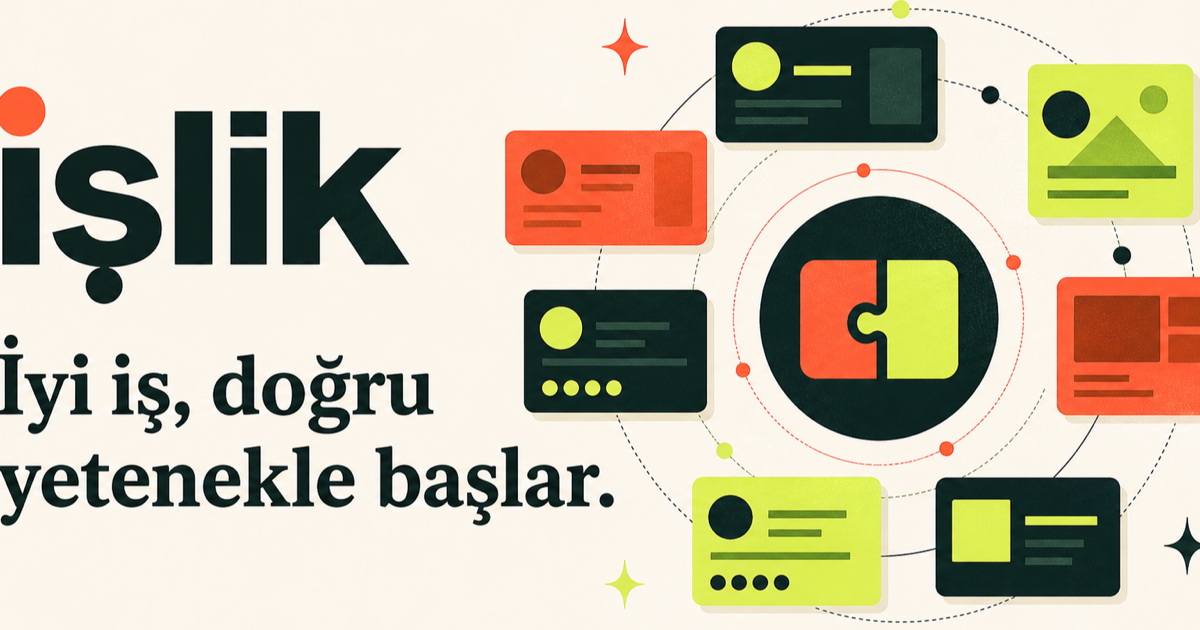
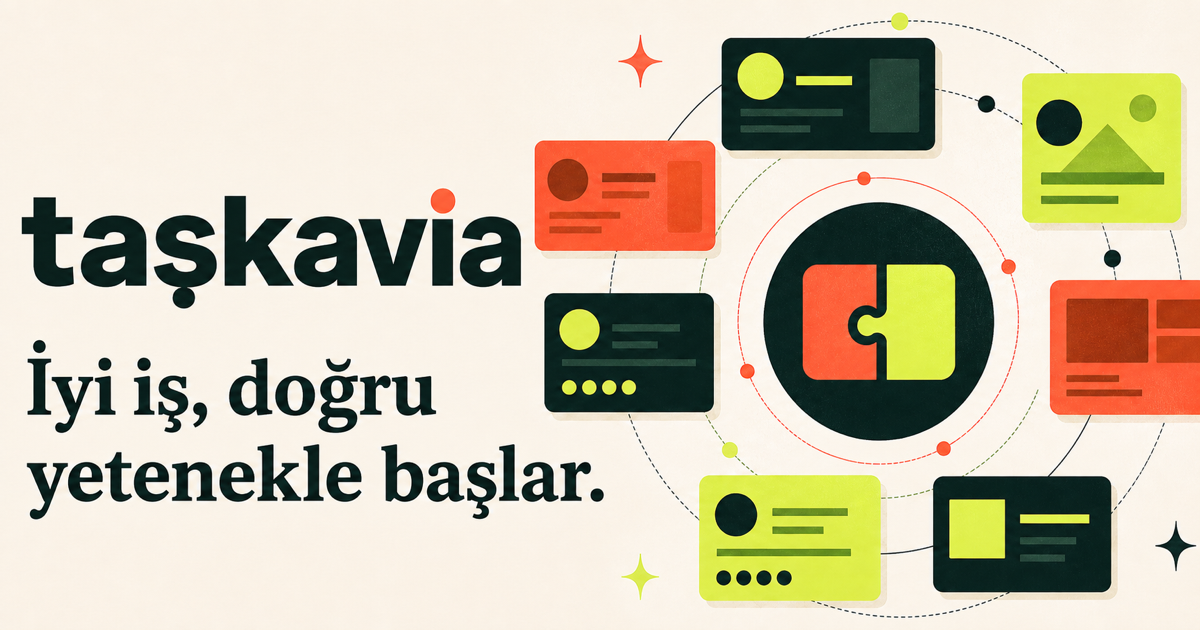
Rename marketplace to Taskavia

diff --git a/app/admin/page.tsx b/app/admin/page.tsx
@@ -6,7 +6,7 @@ import { requireAdmin } from '@/lib/auth/admin'
 import { formatCurrency, formatDate } from '@/lib/marketplace'
 
 export const dynamic = 'force-dynamic'
-export const metadata: Metadata = { title: 'Yönetim Paneli — İşlik', description: 'İşlik kullanıcılarını, ilanlarını ve platform hareketlerini yönet.' }
+export const metadata: Metadata = { title: 'Yönetim Paneli — Taskavia', description: 'Taskavia kullanıcılarını, ilanlarını ve platform hareketlerini yönet.' }
 
 type Profile = { id: string; full_name: string; role: string; created_at: string }
 type Job = { id: string; title: string; category: string; status: string; budget_max: number; created_at: string; employer_id: string; employer: { full_name: string } | { full_name: string }[] | null }
@@ -37,11 +37,11 @@ export default async function AdminPage({ searchParams }: { searchParams: Promis
 
   return <MarketplaceShell name={fullName} role={role} active="admin">
     <Feedback {...feedback} />
-    <header className="admin-head"><div><p>İŞLİK YÖNETİMİ</p><h1>Platform kontrol merkezi.</h1><span>Kullanıcıları, ilanları ve platform hareketlerini tek ekrandan takip et.</span></div><div><Link href={role === 'employer' ? '/employer' : '/freelancer'}>Panele dön</Link><Link href="/settings">Ayarlar</Link></div></header>
+    <header className="admin-head"><div><p>TASKAVIA YÖNETİMİ</p><h1>Platform kontrol merkezi.</h1><span>Kullanıcıları, ilanları ve platform hareketlerini tek ekrandan takip et.</span></div><div><Link href={role === 'employer' ? '/employer' : '/freelancer'}>Panele dön</Link><Link href="/settings">Ayarlar</Link></div></header>
     <section className="admin-stats" aria-label="Platform özeti"><article><small>KULLANICILAR</small><strong>{profiles.length}</strong><span>{suspendedUsers} askıya alınmış hesap</span></article><article><small>AÇIK İLANLAR</small><strong>{openJobs}</strong><span>{jobs.length} görüntülenen ilan</span></article><article><small>TEKLİFLER</small><strong>{proposalCountResult.count ?? 0}</strong><span>Toplam gönderilen teklif</span></article><article><small>MESAJLAR</small><strong>{messageCountResult.count ?? 0}</strong><span>{reviewCountResult.count ?? 0} değerlendirme</span></article></section>
     {hasLoadError && <SetupNotice />}
     <section className="admin-grid">
-      <article className="admin-panel"><header><div><p>KULLANICI YÖNETİMİ</p><h2>Son kayıtlar</h2></div><span>{profiles.length} hesap</span></header><div className="admin-list">{profiles.map((profile) => { const authUser = authById.get(profile.id); const banned = isBanned(authUser?.banned_until); const isCurrentAdmin = profile.id === user.id; return <div className="admin-user-row" key={profile.id}><div className="admin-avatar">{profile.full_name.slice(0, 2).toLocaleUpperCase('tr-TR')}</div><div><strong>{profile.full_name || authUser?.email || 'İşlik üyesi'}</strong><small>{authUser?.email ?? 'E-posta bulunamadı'} · {formatDate(profile.created_at)}</small></div><span className={banned ? 'suspended' : ''}>{banned ? 'ASKIDA' : profile.role === 'employer' ? 'İŞVEREN' : 'FREELANCER'}</span>{isCurrentAdmin ? <em>YÖNETİCİ</em> : <form action={changeUserAccess.bind(null, profile.id, banned ? 'activate' : 'suspend')}><button className={banned ? 'activate' : ''} type="submit">{banned ? 'Etkinleştir' : 'Askıya al'}</button></form>}</div>})}{profiles.length === 0 && <div className="marketplace-empty"><p>Kullanıcı bulunamadı.</p></div>}</div></article>
+      <article className="admin-panel"><header><div><p>KULLANICI YÖNETİMİ</p><h2>Son kayıtlar</h2></div><span>{profiles.length} hesap</span></header><div className="admin-list">{profiles.map((profile) => { const authUser = authById.get(profile.id); const banned = isBanned(authUser?.banned_until); const isCurrentAdmin = profile.id === user.id; return <div className="admin-user-row" key={profile.id}><div className="admin-avatar">{profile.full_name.slice(0, 2).toLocaleUpperCase('tr-TR')}</div><div><strong>{profile.full_name || authUser?.email || 'Taskavia üyesi'}</strong><small>{authUser?.email ?? 'E-posta bulunamadı'} · {formatDate(profile.created_at)}</small></div><span className={banned ? 'suspended' : ''}>{banned ? 'ASKIDA' : profile.role === 'employer' ? 'İŞVEREN' : 'FREELANCER'}</span>{isCurrentAdmin ? <em>YÖNETİCİ</em> : <form action={changeUserAccess.bind(null, profile.id, banned ? 'activate' : 'suspend')}><button className={banned ? 'activate' : ''} type="submit">{banned ? 'Etkinleştir' : 'Askıya al'}</button></form>}</div>})}{profiles.length === 0 && <div className="marketplace-empty"><p>Kullanıcı bulunamadı.</p></div>}</div></article>
       <article className="admin-panel"><header><div><p>İLAN DENETİMİ</p><h2>Son ilanlar</h2></div><Link href="/jobs">İlanları aç →</Link></header><div className="admin-list">{jobs.map((job) => { const employer = Array.isArray(job.employer) ? job.employer[0] : job.employer; const manageable = job.status === 'open' || job.status === 'cancelled'; return <div className="admin-job-row" key={job.id}><div><small>{job.category} · {formatDate(job.created_at)}</small><strong>{job.title}</strong><span>{employer?.full_name ?? 'İşveren'} · {formatCurrency(job.budget_max)}</span></div><em className={job.status}>{job.status}</em><Link href={`/jobs/${job.id}`}>İncele</Link>{manageable && <form action={changeJobVisibility.bind(null, job.id, job.status === 'open' ? 'cancel' : 'reopen')}><button className={job.status === 'cancelled' ? 'activate' : ''} type="submit">{job.status === 'open' ? 'Yayından kaldır' : 'Yeniden yayınla'}</button></form>}</div>})}{jobs.length === 0 && <div className="marketplace-empty"><p>İlan bulunamadı.</p></div>}</div></article>
     </section>
   </MarketplaceShell>

diff --git a/app/freelancer/page.tsx b/app/freelancer/page.tsx
@@ -6,7 +6,7 @@ import { requireRole } from '@/lib/auth/role'
 import { categories, formatCurrency, formatDate } from '@/lib/marketplace'
 
 export const dynamic = 'force-dynamic'
-export const metadata: Metadata = { title: 'Freelancer Paneli — İşlik', description: 'Tekliflerini, projelerini ve kazançlarını yönet.' }
+export const metadata: Metadata = { title: 'Freelancer Paneli — Taskavia', description: 'Tekliflerini, projelerini ve kazançlarını yönet.' }
 
 export default async function FreelancerPage({ searchParams }: { searchParams: Promise<{ category?: string }> }) {
   const [{ category }, { supabase, user, fullName }] = await Promise.all([searchParams, requireRole('freelancer')])
@@ -28,6 +28,6 @@ export default async function FreelancerPage({ searchParams }: { searchParams: P
   return <MarketplaceShell name={fullName} role="freelancer" active="dashboard">
     <div className="dashboard-heading"><div><p>FREELANCER PANELİ</p><h1>Günaydın, {fullName.split(' ')[0]}.</h1><span>Yeni fırsatları keşfet, tekliflerini ve aktif işlerini tek yerden yönet.</span></div><DashboardDate /></div>
     <section className="dashboard-stats"><StatCard label="AKTİF TEKLİFLER" value={String(pending)} note={`${proposals?.length ?? 0} toplam teklif`} href="/freelancer/activity?view=proposals" /><StatCard label="DEVAM EDEN İŞLER" value={String(active)} note="Kabul edilmiş projeler" tone="lime" href="/freelancer/activity?view=jobs" /><StatCard label="TOPLAM KAZANÇ" value={formatCurrency(earnings)} note="Serbest bırakılan ödemeler" tone="dark" href="/freelancer/activity?view=earnings" /></section>
-    <section className="dashboard-section" id="opportunities"><div className="dashboard-section-title"><div><p>YENİ FIRSATLAR</p><h2>{selectedCategory ? `${selectedCategory} projeleri` : 'Sana açık projeler'}</h2></div><Link href="/jobs">Tümünü gör →</Link></div><nav className="dashboard-category-links" aria-label="Sana açık projeleri kategoriye göre filtrele"><Link className={!selectedCategory ? 'active' : ''} href="/freelancer#opportunities">Tümü</Link>{categories.map((item) => <Link className={selectedCategory === item ? 'active' : ''} href={`/freelancer?category=${encodeURIComponent(item)}#opportunities`} key={item}>{item}</Link>)}</nav>{jobsError && <SetupNotice />}<div className="opportunity-list">{jobs?.map((job) => { const employer = Array.isArray(job.employer) ? job.employer[0] : job.employer; return <article className="opportunity-card" key={job.id}><div className="opportunity-company"><span>{(employer?.company_name || employer?.full_name || 'İŞ').slice(0,2).toLocaleUpperCase('tr-TR')}</span><div><strong>{employer?.company_name || employer?.full_name || 'İşlik işvereni'}</strong><small>{formatDate(job.created_at)}</small></div></div><div className="opportunity-category">{job.category}</div><h3>{job.title}</h3><div className="opportunity-skills">{job.skills?.map((skill: string) => <span key={skill}>{skill}</span>)}</div><footer><div><small>BÜTÇE</small><strong>{formatCurrency(job.budget_min)} – {formatCurrency(job.budget_max)}</strong></div><Link className="round-link" href={`/jobs/${job.id}`}>→</Link></footer></article>})}{!jobsError && jobs?.length === 0 && <div className="marketplace-empty"><p>{selectedCategory ? `${selectedCategory} kategorisinde açık ilan bulunmuyor.` : 'Henüz açık ilan yok.'}</p></div>}</div></section>
+    <section className="dashboard-section" id="opportunities"><div className="dashboard-section-title"><div><p>YENİ FIRSATLAR</p><h2>{selectedCategory ? `${selectedCategory} projeleri` : 'Sana açık projeler'}</h2></div><Link href="/jobs">Tümünü gör →</Link></div><nav className="dashboard-category-links" aria-label="Sana açık projeleri kategoriye göre filtrele"><Link className={!selectedCategory ? 'active' : ''} href="/freelancer#opportunities">Tümü</Link>{categories.map((item) => <Link className={selectedCategory === item ? 'active' : ''} href={`/freelancer?category=${encodeURIComponent(item)}#opportunities`} key={item}>{item}</Link>)}</nav>{jobsError && <SetupNotice />}<div className="opportunity-list">{jobs?.map((job) => { const employer = Array.isArray(job.employer) ? job.employer[0] : job.employer; return <article className="opportunity-card" key={job.id}><div className="opportunity-company"><span>{(employer?.company_name || employer?.full_name || 'İŞ').slice(0,2).toLocaleUpperCase('tr-TR')}</span><div><strong>{employer?.company_name || employer?.full_name || 'Taskavia işvereni'}</strong><small>{formatDate(job.created_at)}</small></div></div><div className="opportunity-category">{job.category}</div><h3>{job.title}</h3><div className="opportunity-skills">{job.skills?.map((skill: string) => <span key={skill}>{skill}</span>)}</div><footer><div><small>BÜTÇE</small><strong>{formatCurrency(job.budget_min)} – {formatCurrency(job.budget_max)}</strong></div><Link className="round-link" href={`/jobs/${job.id}`}>→</Link></footer></article>})}{!jobsError && jobs?.length === 0 && <div className="marketplace-empty"><p>{selectedCategory ? `${selectedCategory} kategorisinde açık ilan bulunmuyor.` : 'Henüz açık ilan yok.'}</p></div>}</div></section>
   </MarketplaceShell>
 }

diff --git a/app/profiles/[id]/page.tsx b/app/profiles/[id]/page.tsx
@@ -17,13 +17,13 @@ export async function generateMetadata({ params }: { params: Promise<{ id: strin
   const { id } = await params
   const supabase = await createClient()
   const { data: profile } = await supabase.from('profiles').select('full_name, title, role, company_name').eq('id', id).maybeSingle()
-  const name = profile?.company_name || profile?.full_name || 'İşlik profili'
-  const description = profile?.title ? `${name} — ${profile.title}` : `${name} İşlik profili`
+  const name = profile?.company_name || profile?.full_name || 'Taskavia profili'
+  const description = profile?.title ? `${name} — ${profile.title}` : `${name} Taskavia profili`
   return {
-    title: `${name} — İşlik`,
+    title: `${name} — Taskavia`,
     description,
-    openGraph: { title: `${name} — İşlik`, description, images: [] },
-    twitter: { card: 'summary', title: `${name} — İşlik`, description, images: [] },
+    openGraph: { title: `${name} — Taskavia`, description, images: [] },
+    twitter: { card: 'summary', title: `${name} — Taskavia`, description, images: [] },
   }
 }
 
@@ -63,7 +63,7 @@ export default async function PublicProfilePage({ params }: { params: Promise<{ 
         </> : <>
           <div><small>ŞİRKET / KİŞİ</small><strong>{profile.company_name || profile.full_name}</strong></div>
           <div><small>YETKİLİ</small><strong>{profile.full_name}</strong></div>
-          <div><small>İŞLİK ÜYESİ</small><strong>{formatDate(profile.created_at)}</strong></div>
+          <div><small>TASKAVIA ÜYESİ</small><strong>{formatDate(profile.created_at)}</strong></div>
         </>}
       </section>
 
@@ -77,7 +77,7 @@ export default async function PublicProfilePage({ params }: { params: Promise<{ 
           </div></section>}
         </main>
 
-        <aside className="public-reviews"><span>DEĞERLENDİRMELER</span><h2>{average ? `${average} / 5` : 'Henüz puan yok'}</h2><p>{reviews?.length ?? 0} doğrulanmış iş değerlendirmesi</p>{resumeLink?.signedUrl && <a className="public-resume-link" href={resumeLink.signedUrl} target="_blank" rel="noreferrer"><strong>PDF</strong><span>Özgeçmişi görüntüle ↗</span><small>Bağlantı 1 saat geçerlidir</small></a>}<div>{reviews?.length ? reviews.map((review, index) => { const reviewer = Array.isArray(review.reviewer) ? review.reviewer[0] : review.reviewer; return <article key={index}><strong>{'★'.repeat(review.rating)}</strong><p>{review.comment || 'Yorum bırakılmadı.'}</p><small>{reviewer?.company_name || reviewer?.full_name || 'İşlik kullanıcısı'} · {formatDate(review.created_at)}</small></article> }) : <div className="public-review-empty">İlk tamamlanan işten sonra değerlendirmeler burada görünecek.</div>}</div>{profile.portfolio_url && <a href={profile.portfolio_url} target="_blank" rel="noreferrer">Önceki portföy dosyasını aç ↗</a>}</aside>
+        <aside className="public-reviews"><span>DEĞERLENDİRMELER</span><h2>{average ? `${average} / 5` : 'Henüz puan yok'}</h2><p>{reviews?.length ?? 0} doğrulanmış iş değerlendirmesi</p>{resumeLink?.signedUrl && <a className="public-resume-link" href={resumeLink.signedUrl} target="_blank" rel="noreferrer"><strong>PDF</strong><span>Özgeçmişi görüntüle ↗</span><small>Bağlantı 1 saat geçerlidir</small></a>}<div>{reviews?.length ? reviews.map((review, index) => { const reviewer = Array.isArray(review.reviewer) ? review.reviewer[0] : review.reviewer; return <article key={index}><strong>{'★'.repeat(review.rating)}</strong><p>{review.comment || 'Yorum bırakılmadı.'}</p><small>{reviewer?.company_name || reviewer?.full_name || 'Taskavia kullanıcısı'} · {formatDate(review.created_at)}</small></article> }) : <div className="public-review-empty">İlk tamamlanan işten sonra değerlendirmeler burada görünecek.</div>}</div>{profile.portfolio_url && <a href={profile.portfolio_url} target="_blank" rel="noreferrer">Önceki portföy dosyasını aç ↗</a>}</aside>
       </div>
     </>}
   </MarketplaceShell>

diff --git a/app/settings/page.tsx b/app/settings/page.tsx
@@ -6,7 +6,7 @@ import { isAdminEmail } from '@/lib/auth/admin'
 import { requireUser } from '@/lib/auth/role'
 
 export const dynamic = 'force-dynamic'
-export const metadata: Metadata = { title: 'Ayarlar — İşlik', description: 'İşlik hesap, bildirim, gizlilik ve güvenlik ayarlarını yönet.' }
+export const metadata: Metadata = { title: 'Ayarlar — Taskavia', description: 'Taskavia hesap, bildirim, gizlilik ve güvenlik ayarlarını yönet.' }
 
 type Settings = {
   notifications?: { messages?: boolean; project_updates?: boolean; opportunities?: boolean; weekly_digest?: boolean; marketing?: boolean }
@@ -48,16 +48,16 @@ export default async function SettingsPage({ searchParams }: { searchParams: Pro
               <Toggle name="notifyProjectUpdates" title="Proje ve teklif güncellemeleri" description={role === 'employer' ? 'İlanlarına yeni teklif geldiğinde ve iş durumu değiştiğinde bildir.' : 'Tekliflerin kabul edildiğinde veya iş durumu değiştiğinde bildir.'} defaultChecked={notifications.project_updates ?? true} />
               <Toggle name="notifyOpportunities" title={role === 'employer' ? 'Yetenek önerileri' : 'Yeni iş fırsatları'} description={role === 'employer' ? 'İlanlarınla eşleşen freelancer önerilerini al.' : 'Yeteneklerinle eşleşen yeni ilanlardan haberdar ol.'} defaultChecked={notifications.opportunities ?? true} />
               <Toggle name="notifyWeeklyDigest" title="Haftalık özet" description="Haftanın fırsatlarını ve hesap hareketlerini tek e-postada al." defaultChecked={notifications.weekly_digest ?? true} />
-              <Toggle name="notifyMarketing" title="Ürün haberleri" description="Yeni özellikler, etkinlikler ve İşlik duyurularını al." defaultChecked={notifications.marketing ?? false} />
+              <Toggle name="notifyMarketing" title="Ürün haberleri" description="Yeni özellikler, etkinlikler ve Taskavia duyurularını al." defaultChecked={notifications.marketing ?? false} />
             </div></div>
           </details>
 
           <details className="settings-accordion">
             <AccordionSummary number="02" title="Gizlilik" description="Profilinin görünürlüğünü ve hareketlerini belirle." status={privacyStatus} />
             <div className="settings-accordion-body">
-              <label className="settings-select">Profil görünürlüğü<select name="profileVisibility" defaultValue={privacy.profile_visibility ?? 'public'}><option value="public">Herkese açık</option><option value="members">Yalnızca İşlik üyeleri</option></select><small>Profilin arama ve freelancer listelerinde kimlere gösterilsin?</small></label>
+              <label className="settings-select">Profil görünürlüğü<select name="profileVisibility" defaultValue={privacy.profile_visibility ?? 'public'}><option value="public">Herkese açık</option><option value="members">Yalnızca Taskavia üyeleri</option></select><small>Profilin arama ve freelancer listelerinde kimlere gösterilsin?</small></label>
               <div className="settings-options">
-                <Toggle name="showActivity" title="Aktiflik durumunu göster" description="Yakın zamanda aktif olduğunu diğer İşlik üyeleri görebilsin." defaultChecked={privacy.show_activity ?? true} />
+                <Toggle name="showActivity" title="Aktiflik durumunu göster" description="Yakın zamanda aktif olduğunu diğer Taskavia üyeleri görebilsin." defaultChecked={privacy.show_activity ?? true} />
                 <Toggle name="showCompletedJobs" title="Tamamlanan işleri göster" description="Tamamlanan proje sayın güven profiline dahil edilsin." defaultChecked={privacy.show_completed_jobs ?? true} />
               </div>
             </div>

diff --git a/app/employer/page.tsx b/app/employer/page.tsx
@@ -6,7 +6,7 @@ import { requireRole } from '@/lib/auth/role'
 import { formatCurrency } from '@/lib/marketplace'
 
 export const dynamic = 'force-dynamic'
-export const metadata: Metadata = { title: 'İşveren Paneli — İşlik', description: 'Projelerini, adaylarını ve ödemelerini yönet.' }
+export const metadata: Metadata = { title: 'İşveren Paneli — Taskavia', description: 'Projelerini, adaylarını ve ödemelerini yönet.' }
 
 export default async function EmployerPage() {
   const { supabase, user, fullName } = await requireRole('employer')
@@ -28,6 +28,6 @@ export default async function EmployerPage() {
       const hasReview = reviewedJobIds.has(job.id)
       return <article key={job.id}><div className="project-name"><span className={`project-color ${index % 3 === 1 ? 'blue' : index % 3 === 2 ? 'lime' : ''}`} /><strong>{job.title}</strong></div><Link className="project-proposal-link" href={`/employer/jobs/${job.id}/proposals`}>{job.proposals?.length ?? 0} aday</Link><span className="project-status">{job.status}</span><strong>{formatCurrency(job.budget_max)}</strong><div className="project-actions">{job.status === 'completed' && acceptedProposal && (hasReview ? <span className="project-reviewed">✓ Değerlendirildi</span> : <Link className="project-review-link" href={`/reviews/new?job=${job.id}&to=${acceptedProposal.freelancer_id}`}>Freelancer’ı değerlendir</Link>)}<Link className="round-link" href={`/jobs/${job.id}`} aria-label={`${job.title} ilanını aç`}>→</Link></div></article>
     })}{!jobsError && jobs?.length === 0 && <div className="marketplace-empty"><p>Henüz projen yok. İlk ilanını yayınlayarak başla.</p></div>}</div></section>
-    <section className="employer-bottom-grid"><article className="candidate-panel"><p>HIZLI BAŞLANGIÇ</p><div className="candidate-avatar">＋</div><h3>Yeni proje oluştur</h3><span>İhtiyacını anlat, teklifler aynı panelde toplansın.</span><div className="candidate-tags"><span>RLS güvenli</span><span>Teklif sistemi</span></div><Link href="/employer/jobs/new">İlan yayınla →</Link></article><article className="employer-tip"><span>✦ İŞLİK ÖNERİSİ</span><h3>Net teslimatlar ve örnek referanslar daha iyi teklif getirir.</h3><p>Proje kapsamını, bütçe aralığını ve son tarihi açıkça yazarak doğru yeteneklerle daha hızlı eşleş.</p><Link href="/employer/jobs/new">Yeni proje oluştur →</Link></article></section>
+    <section className="employer-bottom-grid"><article className="candidate-panel"><p>HIZLI BAŞLANGIÇ</p><div className="candidate-avatar">＋</div><h3>Yeni proje oluştur</h3><span>İhtiyacını anlat, teklifler aynı panelde toplansın.</span><div className="candidate-tags"><span>RLS güvenli</span><span>Teklif sistemi</span></div><Link href="/employer/jobs/new">İlan yayınla →</Link></article><article className="employer-tip"><span>✦ TASKAVIA ÖNERİSİ</span><h3>Net teslimatlar ve örnek referanslar daha iyi teklif getirir.</h3><p>Proje kapsamını, bütçe aralığını ve son tarihi açıkça yazarak doğru yeteneklerle daha hızlı eşleş.</p><Link href="/employer/jobs/new">Yeni proje oluştur →</Link></article></section>
   </MarketplaceShell>
 }

diff --git a/app/marketplace-home.tsx b/app/marketplace-home.tsx
@@ -38,7 +38,7 @@ export default function MarketplaceHome() {
   return (
     <main>
       <nav className="site-nav" aria-label="Ana navigasyon">
-        <Link className="brand" href="/" aria-label="İşlik ana sayfa"><span className="brand-mark" aria-hidden="true">i</span><span>işlik</span></Link>
+        <Link className="brand" href="/" aria-label="Taskavia ana sayfa"><span className="brand-mark" aria-hidden="true">t</span><span>taskavia</span></Link>
         <div className="nav-links"><a href="#projeler">İş bul</a><a href="#yetenekler">Yetenek bul</a><a href="#nasil-calisir">Nasıl çalışır?</a></div>
         <div className="nav-actions"><Link className="text-link" href="/login">Giriş yap</Link><Link className="button button-dark button-small" href="/signup">Ücretsiz katıl <span aria-hidden="true">↗</span></Link></div>
       </nav>
@@ -67,7 +67,7 @@ export default function MarketplaceHome() {
         </div>
       </section>
 
-      <section className="logo-strip" aria-label="İşlik kullanan markalar"><span>monday</span><span className="logo-serif">MAVİ</span><span>iyzico</span><span className="logo-serif">VAKKO</span><span>Getir</span><span className="logo-serif">Kolektif</span></section>
+      <section className="logo-strip" aria-label="Taskavia kullanan markalar"><span>monday</span><span className="logo-serif">MAVİ</span><span>iyzico</span><span className="logo-serif">VAKKO</span><span>Getir</span><span className="logo-serif">Kolektif</span></section>
 
       <section className="section projects-section" id="projeler">
         <div className="section-heading"><div><span className="section-kicker">FIRSATLARI KEŞFET</span><h2>Bugün başlayan işler</h2></div><p>Yeteneğine ve hedeflerine uygun, net kapsamlı projeler arasından seçimini yap.</p></div>
@@ -93,7 +93,7 @@ export default function MarketplaceHome() {
       </section>
 
       <section className="cta-section"><div className="cta-spark">✦</div><p>Sıradaki iyi iş burada başlıyor.</p><h2>Birlikte üretmeye<br />hazır mısın?</h2><div className="cta-actions"><Link href="/signup" className="button button-light">Freelancer olarak katıl <span>↗</span></Link><Link href="/signup" className="button button-outline-light">Proje yayınla <span>→</span></Link></div></section>
-      <footer><Link className="brand footer-brand" href="/"><span className="brand-mark">i</span><span>işlik</span></Link><p>İyi işlerin buluşma noktası.</p><div className="footer-links"><a href="#projeler">İşler</a><a href="#yetenekler">Yetenekler</a><a href="#nasil-calisir">Nasıl çalışır?</a><a href="mailto:merhaba@islik.co">İletişim</a></div><span className="copyright">© 2026 İşlik</span></footer>
+      <footer><Link className="brand footer-brand" href="/"><span className="brand-mark">t</span><span>taskavia</span></Link><p>İyi işlerin buluşma noktası.</p><div className="footer-links"><a href="#projeler">İşler</a><a href="#yetenekler">Yetenekler</a><a href="#nasil-calisir">Nasıl çalışır?</a><Link href="/signup">Bize katıl</Link></div><span className="copyright">© 2026 Taskavia</span></footer>
     </main>
   );
 }

diff --git a/app/reviews/new/page.tsx b/app/reviews/new/page.tsx
@@ -5,7 +5,7 @@ import { createReview } from '@/lib/actions/marketplace'
 import { requireUser } from '@/lib/auth/role'
 
 export const dynamic = 'force-dynamic'
-export const metadata: Metadata = { title: 'Değerlendirme — İşlik', description: 'Tamamlanan iş için puan ve yorum bırak.' }
+export const metadata: Metadata = { title: 'Değerlendirme — Taskavia', description: 'Tamamlanan iş için puan ve yorum bırak.' }
 
 export default async function ReviewPage({ searchParams }: { searchParams: Promise<{ job?: string; to?: string; error?: string; message?: string }> }) {
   const params = await searchParams
@@ -20,6 +20,6 @@ export default async function ReviewPage({ searchParams }: { searchParams: Promi
   return <MarketplaceShell name={fullName} role={role} active="dashboard">
     <div className="marketplace-page-head"><div><p>GÜVEN & İTİBAR</p><h1>Deneyimini paylaş.</h1><span>{job.title} projesindeki çalışmanı değerlendir.</span></div></div>
     <Feedback {...params} />
-    <form action={createReview.bind(null, job.id, reviewee.id)} className="marketplace-form review-form"><div className="review-person"><span>{reviewee.full_name.slice(0, 2).toLocaleUpperCase('tr-TR')}</span><div><strong>{reviewee.full_name}</strong><small>{reviewee.title || 'İşlik üyesi'}</small></div></div><label>Puan<select name="rating" required defaultValue="5"><option value="5">★★★★★ — Mükemmel</option><option value="4">★★★★☆ — Çok iyi</option><option value="3">★★★☆☆ — İyi</option><option value="2">★★☆☆☆ — Geliştirilebilir</option><option value="1">★☆☆☆☆ — Kötü</option></select></label><label>Yorum<textarea name="comment" rows={6} maxLength={1500} placeholder="İletişim, teslimat kalitesi ve çalışma deneyimini anlat." /></label><button className="marketplace-submit" type="submit">Değerlendirmeyi yayınla →</button></form>
+    <form action={createReview.bind(null, job.id, reviewee.id)} className="marketplace-form review-form"><div className="review-person"><span>{reviewee.full_name.slice(0, 2).toLocaleUpperCase('tr-TR')}</span><div><strong>{reviewee.full_name}</strong><small>{reviewee.title || 'Taskavia üyesi'}</small></div></div><label>Puan<select name="rating" required defaultValue="5"><option value="5">★★★★★ — Mükemmel</option><option value="4">★★★★☆ — Çok iyi</option><option value="3">★★★☆☆ — İyi</option><option value="2">★★☆☆☆ — Geliştirilebilir</option><option value="1">★☆☆☆☆ — Kötü</option></select></label><label>Yorum<textarea name="comment" rows={6} maxLength={1500} placeholder="İletişim, teslimat kalitesi ve çalışma deneyimini anlat." /></label><button className="marketplace-submit" type="submit">Değerlendirmeyi yayınla →</button></form>
   </MarketplaceShell>
 }

diff --git a/app/freelancer/activity/page.tsx b/app/freelancer/activity/page.tsx
@@ -5,7 +5,7 @@ import { requireRole } from '@/lib/auth/role'
 import { formatCurrency, formatDate } from '@/lib/marketplace'
 
 export const dynamic = 'force-dynamic'
-export const metadata: Metadata = { title: 'Çalışmalarım — İşlik', description: 'Tekliflerini, devam eden işlerini ve kazançlarını görüntüle.' }
+export const metadata: Metadata = { title: 'Çalışmalarım — Taskavia', description: 'Tekliflerini, devam eden işlerini ve kazançlarını görüntüle.' }
 
 type View = 'proposals' | 'jobs' | 'earnings'
 type Employer = { full_name: string | null; company_name: string | null }
@@ -65,7 +65,7 @@ export default async function FreelancerActivityPage({ searchParams }: { searchP
       {visibleProposals.map((proposal) => {
         const job = one(proposal.job)
         const employer = one(job?.employer)
-        return <article className="activity-card" key={proposal.id}><div><span>{view === 'jobs' ? 'DEVAM EDEN PROJE' : 'AKTİF TEKLİF'}</span><h2>{job?.title || 'Proje'}</h2><p>{employer?.company_name || employer?.full_name || 'İşlik işvereni'} · {proposalStatus(proposal.status)}</p></div><div className="activity-numbers"><small>TEKLİFİN</small><strong>{formatCurrency(proposal.price)}</strong><em>{proposal.duration_days} gün</em></div><div className="activity-actions"><Link href={`/jobs/${job?.id}`}>İlanı görüntüle</Link>{proposal.status === 'accepted' && <Link className="primary" href={`/messages/${proposal.id}`}>Çalışma alanına git →</Link>}</div></article>
+        return <article className="activity-card" key={proposal.id}><div><span>{view === 'jobs' ? 'DEVAM EDEN PROJE' : 'AKTİF TEKLİF'}</span><h2>{job?.title || 'Proje'}</h2><p>{employer?.company_name || employer?.full_name || 'Taskavia işvereni'} · {proposalStatus(proposal.status)}</p></div><div className="activity-numbers"><small>TEKLİFİN</small><strong>{formatCurrency(proposal.price)}</strong><em>{proposal.duration_days} gün</em></div><div className="activity-actions"><Link href={`/jobs/${job?.id}`}>İlanı görüntüle</Link>{proposal.status === 'accepted' && <Link className="primary" href={`/messages/${proposal.id}`}>Çalışma alanına git →</Link>}</div></article>
       })}
       {visibleProposals.length === 0 && <div className="marketplace-empty"><strong>{view === 'jobs' ? 'Devam eden işin yok' : 'Bekleyen teklifin yok'}</strong><p>{view === 'jobs' ? 'Kabul edilen bir proje çalışma durumundayken burada görünecek; tamamlandığında listeden kalkacak.' : 'Yeni bir ilana teklif verdiğinde değerlendirme sürecini burada izleyebilirsin.'}</p></div>}
     </section>}

diff --git a/app/jobs/page.tsx b/app/jobs/page.tsx
@@ -5,7 +5,7 @@ import { requireRole } from '@/lib/auth/role'
 import { categories, formatCurrency, formatDate } from '@/lib/marketplace'
 
 export const dynamic = 'force-dynamic'
-export const metadata: Metadata = { title: 'İşleri Keşfet — İşlik', description: 'Açık freelancer ilanlarını ara ve filtrele.' }
+export const metadata: Metadata = { title: 'İşleri Keşfet — Taskavia', description: 'Açık freelancer ilanlarını ara ve filtrele.' }
 
 export default async function JobsPage({ searchParams }: { searchParams: Promise<{ q?: string; category?: string; minBudget?: string }> }) {
   const filters = await searchParams
@@ -44,7 +44,7 @@ export default async function JobsPage({ searchParams }: { searchParams: Promise
             <div className="job-feed-top"><span>{job.category}</span><small>{formatDate(job.created_at)}</small></div>
             <h2><Link href={`/jobs/${job.id}`}>{job.title}</Link></h2><p>{job.description}</p>
             <div className="job-skill-row">{job.skills?.map((skill: string) => <span key={skill}>{skill}</span>)}</div>
-            <footer><div><small>İŞVEREN</small><strong>{employer?.company_name || employer?.full_name || 'İşlik işvereni'}</strong></div><div><small>BÜTÇE</small><strong>{formatCurrency(job.budget_min)} – {formatCurrency(job.budget_max)}</strong></div><div><small>SON TARİH</small><strong>{formatDate(job.deadline)}</strong></div><Link href={`/jobs/${job.id}`}>İncele →</Link></footer>
+            <footer><div><small>İŞVEREN</small><strong>{employer?.company_name || employer?.full_name || 'Taskavia işvereni'}</strong></div><div><small>BÜTÇE</small><strong>{formatCurrency(job.budget_min)} – {formatCurrency(job.budget_max)}</strong></div><div><small>SON TARİH</small><strong>{formatDate(job.deadline)}</strong></div><Link href={`/jobs/${job.id}`}>İncele →</Link></footer>
           </article>
         })}
         {!error && jobs?.length === 0 && <div className="marketplace-empty"><strong>Uygun ilan bulunamadı</strong><p>Filtreleri değiştirerek yeniden deneyebilirsin.</p></div>}

diff --git a/app/layout.tsx b/app/layout.tsx
@@ -4,18 +4,18 @@ import "./accordions.css";
 
 export const metadata: Metadata = {
   metadataBase: new URL(process.env.NEXT_PUBLIC_SITE_URL ?? "http://localhost:3000"),
-  title: "İşlik — İyi işlerin buluşma noktası",
+  title: "Taskavia — İyi işlerin buluşma noktası",
   description: "Türkiye'nin seçkin freelancer ve işverenlerini güvenli projelerde buluşturan yaratıcı iş ağı.",
   openGraph: {
-    title: "İşlik — İyi işlerin buluşma noktası",
+    title: "Taskavia — İyi işlerin buluşma noktası",
     description: "İyi iş, doğru yetenekle başlar.",
-    images: [{ url: "/og.png", width: 1200, height: 630, alt: "İşlik freelancer pazaryeri" }],
+    images: [{ url: "/og.png", width: 1200, height: 630, alt: "Taskavia freelancer pazaryeri" }],
     locale: "tr_TR",
     type: "website",
   },
   twitter: {
     card: "summary_large_image",
-    title: "İşlik — İyi işlerin buluşma noktası",
+    title: "Taskavia — İyi işlerin buluşma noktası",
     description: "İyi iş, doğru yetenekle başlar.",
     images: ["/og.png"],
   },

diff --git a/app/login/page.tsx b/app/login/page.tsx
@@ -5,8 +5,8 @@ import { AuthFeedbackUrlCleanup } from "@/app/auth-feedback-url-cleanup";
 import { LoginHistoryGuard } from "@/app/login-history-guard";
 
 export const metadata: Metadata = {
-  title: "Giriş Yap — İşlik",
-  description: "İşlik hesabına giriş yap ve yeni fırsatlara kaldığın yerden devam et.",
+  title: "Giriş Yap — Taskavia",
+  description: "Taskavia hesabına giriş yap ve yeni fırsatlara kaldığın yerden devam et.",
 };
 
 export default async function LoginPage({
@@ -20,7 +20,7 @@ export default async function LoginPage({
     <main className="signup-shell login-shell">
       <LoginHistoryGuard />
       <aside className="signup-aside login-aside">
-        <Link className="brand" href="/"><span className="brand-mark">i</span><span>işlik</span></Link>
+        <Link className="brand" href="/"><span className="brand-mark">t</span><span>taskavia</span></Link>
         <div className="signup-quote">
           <span>YENİDEN HOŞ GELDİN</span>
           <h2>İyi işler,<br />kaldığın yerden<br />devam eder.</h2>

diff --git a/app/forgot-password/page.tsx b/app/forgot-password/page.tsx
@@ -4,8 +4,8 @@ import { AuthFeedbackUrlCleanup } from "@/app/auth-feedback-url-cleanup";
 import { requestPasswordReset } from "@/lib/actions/auth";
 
 export const metadata: Metadata = {
-  title: "Parolamı Unuttum — İşlik",
-  description: "İşlik hesabın için güvenli bir parola sıfırlama bağlantısı iste.",
+  title: "Parolamı Unuttum — Taskavia",
+  description: "Taskavia hesabın için güvenli bir parola sıfırlama bağlantısı iste.",
 };
 
 export default async function ForgotPasswordPage({
@@ -18,7 +18,7 @@ export default async function ForgotPasswordPage({
   return (
     <main className="signup-shell login-shell">
       <aside className="signup-aside login-aside">
-        <Link className="brand" href="/"><span className="brand-mark">i</span><span>işlik</span></Link>
+        <Link className="brand" href="/"><span className="brand-mark">t</span><span>taskavia</span></Link>
         <div className="signup-quote">
           <span>HESABINI KURTAR</span>
           <h2>Yeni bir<br />başlangıç<br />yapalım.</h2>
